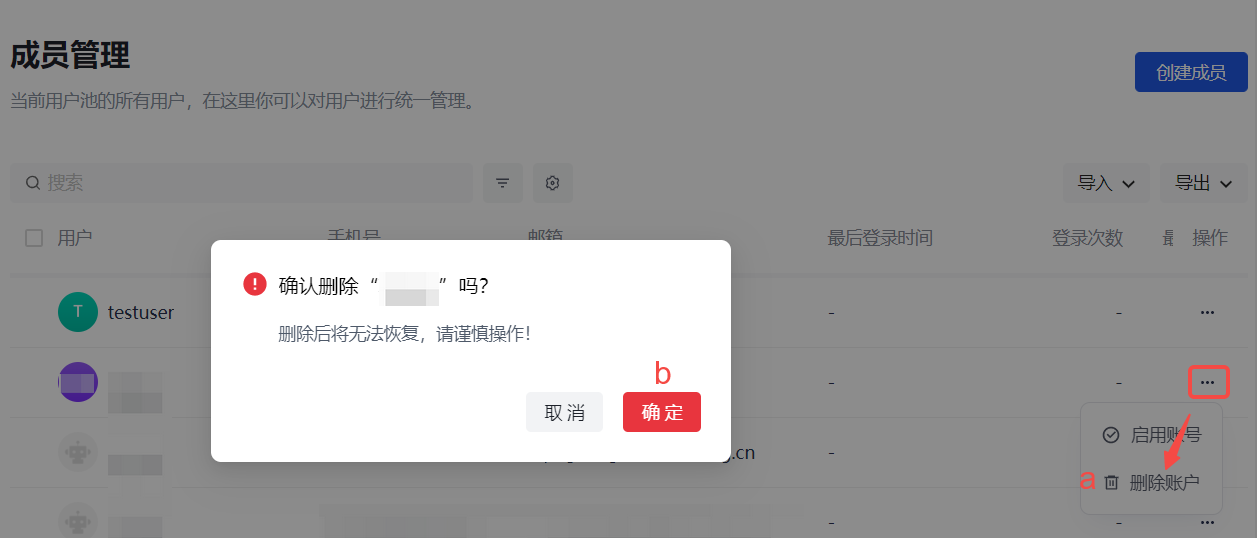
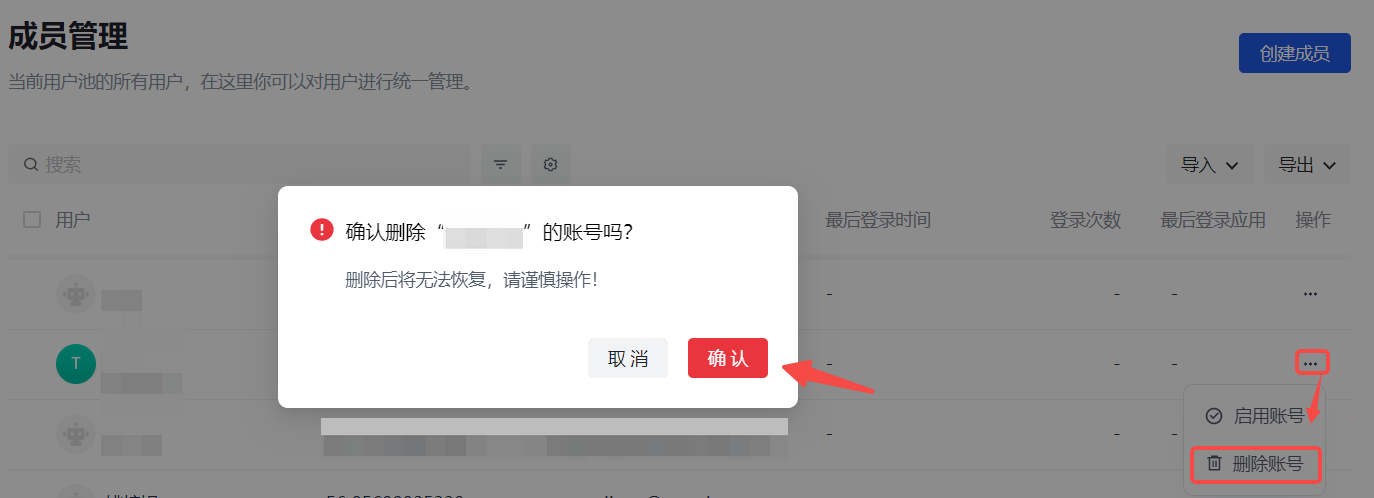
update sync

diff --git a/docs/guides/sync-new/risky-operation.md b/docs/guides/sync-new/risky-operation.md
@@ -13,22 +13,21 @@
 ## 步骤一：删除用户 / 部门
 
 ::: hint-info
-* 待删除用户 / 部门必须属于所建下游同步任务中 **同步范围** 指定的组织树和部门。
-* 删除用户 / 部门前确保已经执行了下游同步，且同步成功，保证 {{$localeConfig.brandName}} 与下游应用数据一致。
+* 待删除用户 / 部门必须属于当前下游同步任务中 **同步范围** 指定的组织树和部门。
+* 删除用户 / 部门前确保已经执行了下游同步，且同步成功。
 :::
 
 ### 删除用户
 
 ::: hint-info
-* 办理离职的用户必须在 **成员管理** 里执行删除操作后，才能触发同步中心删除保护。
-* 必须为待删除用户配置正确的手机号等字段信息（因应用不同），否则同步失败。
+办理离职的用户必须在 **成员管理** 中执行删除操作后，才能触发同步中心删除保护。
 :::
 
 1. 办理离职。</br>a. 在 **组织机构->组织管理**（ToE 场景）/ **用户管理->组织机构**（ToB / ToC 场景）组织树选中待删除成员所在部门。</br>b. 在右侧部门成员列表选中待删用户。</br>c. 在列表下方弹出的操作选项栏点击 **办理离职**。</br>d. 在弹框点击 **离职** 进行确认。
 
 <img src="./images/process-member-leave.png" style="display:block;margin: 0 auto;">
 
-2. 删除账户。</br>a. 在 **组织机构->成员管理**（ToE 场景）/ **用户管理->用户列表**（ToB / ToC 场景）点击待删除用户所在行 **操作** 列 **删除账户** 按钮。</br>b. 在弹框点击 **确定** 确认删除。
+2. 删除账号。</br>a. 在 **组织机构->成员管理**（ToE 场景）/ **用户管理->用户列表**（ToB / ToC 场景）点击待删除用户所在行 **操作** 列 **删除账号** 按钮。</br>b. 在弹框点击 **确定** 确认删除。
 
 <img src="./images/delete-account.png" style="display:block;margin: 0 auto;">
 
@@ -37,7 +36,7 @@
 路径：**组织机构->组织管理**（ToE 场景）/ **用户管理->组织机构**（ToB / ToC 场景）
 
 ::: hint-info
-在删除部门前需要移除部门内用户，否则无法删除。
+在删除部门前需要移除部门内子部门及用户，否则无法删除。
 :::
 
 <img src="./images/delete-department.png" style="display:block;margin: 0 auto;">
@@ -48,22 +47,41 @@
 在勾选部门下用户后，如果列表下方弹出的操作栏中 **移除成员** 按钮是激活状态（所选用户仅属于当前部门），则点击该按钮将所选用户从当前部门直接移除即可；否则，需要按照 [办理用户离职步骤 1 所述](#删除用户) 将所选用户通过办理离职方式从当前部门用户列表中移除。
 :::
 
-2. 删除部门。</br>a. 在左侧组织树点击所选部门后的更多按钮，选择 **删除部门**。</br>b. 在弹框点击 **删除** 按钮确认删除。</br>系统提示成功删除部门。
+2. 删除部门下所有子部门。
+
+3. 删除部门。</br>a. 在左侧组织树点击所选部门后的更多按钮（...），选择 **删除部门**。</br>b. 在弹框点击 **删除** 按钮确认删除。</br>系统提示成功删除部门。
 
 ## 步骤二：在删除保护页执行删除
 
-1. 返回 **同步中心**，在同步任务画布找到待同步数据的下游应用，点击 **处理删除保护** 按钮。</br>进入 **删除保护** 页。
+::: hint-info
+同步任务画布中，**处理删除保护** 按钮有两种状态：
+* 黑色三角：当前同步任务无待处理的删除操作。
+* 橙色三角：当前同步任务有待处理的删除操作。
+:::
 
 <img src="./images/enter-process-delete-protection.png" style="display:block;margin: 0 auto;">
+
+1. 返回 **同步中心**，在同步任务画布找到待同步数据的下游应用，点击 **处理删除保护** 按钮，进入 **删除保护** 页。
+
+::: hint-info
+也可在下游应用的同步任务详情页点击右上角 **删除保护** 按钮进入 **删除保护** 页。
+:::
 
 2. 在 **操作列表** 点击待删除主体所在行 **操作** 列 **执行删除** 按钮，并在确认弹窗中点击 **确定**。</br>提示操作成功。
 
 <img src="./images/delete-protection-list.png" style="display:block;margin: 0 auto;">
 
-<img src="./images/execute-status.jpg" style="display:block;margin: 0 auto;">
-
 ::: hint-info
 * **删除列表** 默认显示所有 **未执行** 的删除操作。点击表头 **执行状态** 取消勾选 **未执行** 后，可查看到当前下游应用的所有删除操作执行记录，了解其执行状态。
 * 点击 **操作** 列 **执行删除** 按钮可执行删除操作，即在下游同步删除该用户 / 部门。
-* 点击 **操作** 列 **取消删除** 按钮不执行删除操作，即下游不会同步删除该用户 / 部门，当前删除操作 **执行状态变** 变为 **已取消**。**取消删除** 后，不可再重新执行同步任务，会导致上下游数据不一致，请谨慎操作！
+* 点击 **操作** 列 **取消删除** 按钮不执行删除操作，即下游不会同步删除该用户 / 部门，当前删除操作 **执行状态** 变为 **已取消**。**取消删除** 后，不可再重新执行同步任务，会导致上下游数据不一致，请谨慎操作！
 :::
+
+<img src="./images/execute-status.jpg" style="display:block;margin: 0 auto;">
+
+::: hint-info
+对于 **未执行** 和/或 **执行失败** 状态，可以点击多个条目进行批量操作。
+:::
+
+<img src="./images/batch-delete.png" style="display:block;margin: 0 auto;">
+

diff --git a/docs/guides/sync-new/perform-sync-new.md b/docs/guides/sync-new/perform-sync-new.md
@@ -6,10 +6,13 @@
 
 当 **同步时机** 为 **手动** 时，需要管理员手动执行同步任务，实现上下游数据的同步。进入 **同步中心** 页面，可以看到同步任务画布，展示所有已创建的同步任务。
 
+## 执行同步
+
 要执行选定的同步任务，执行以下步骤：
 
 ::: hint-info
-执行同步任务，数据不可恢复，要谨慎操作！
+* 执行同步任务，数据不可恢复，要谨慎操作！
+* 必须为待删除用户配置正确的手机号等字段信息（因应用不同），否则同步失败。
 :::
 
 1. 在同步任务画布点击目标任务卡片上的 **执行同步任务** 按钮。</br>打开确认执行弹框。
@@ -18,15 +21,17 @@
 也可以进入该同步任务详情页，点击右上角 **执行同步任务** 按钮。
 :::
 
+<img src='./images/execute-sync-task.png' > 
+
 2. 点击 **确定** 按钮开始执行同步。
 
 ::: hint-info
 同步数据会需要一段时间，这取决于待同步的数据量的大小。
 :::
 
-<img src='./images/execute-sync-task.png' > 
+## 查看同步历史
 
-3. 同步完成后，可以到待同步的应用用户管理页面查看同步后结果，检验同步是否成功。</br>也可以进入同步任务详情页，点击 **同步历史** 选项卡，看到历次同步数据。</br>你可以在 **同步历史** 标签页查看历次同步任务执行时间、同步方式（**实时同步** 还是 **手动**）、历次执行的组织和用户的变更状态及同步更新情况，可在 **操作** 列查看当次同步任务的执行详情，并可导出此次同步执行日志。
+同步完成后，可以到待同步的应用用户管理页面查看同步后结果，检验同步是否成功。</br>也可以进入同步任务详情页，点击 **同步历史** 选项卡，看到历次同步数据。</br>你可以在 **同步历史** 标签页查看历次同步任务执行时间、同步方式（**实时同步** 还是 **手动**）、历次执行的组织和用户的变更状态及同步更新情况，可在 **操作** 列查看当次同步任务详情，并可导出此次同步执行日志。
 
 <img src='./images/sync-history.png' >
 
@@ -87,9 +92,43 @@
 <td>操作</td>
 <td>
 <ul>
-<li>点击 <b>操作</b> 列 <b>详情</b> 按钮，可以查看此次同步执行的主体、同步类型、同步完成时间以及是否成功同步。</p>也可在 <b>同步历史</b> 列表中单击待查看项进入此次同步执行的详情页。</li>
+<li>点击 <b>操作</b> 列 <b>详情</b> 按钮，可以查看此次同步执行的主体、同步类型、同步完成时间以及是否成功同步。</p>也可在 <b>同步历史</b> 列表中单击待查看项进入此次同步执行的详情页。</p>有关详细介绍，请参阅下文 [查看同步历史详情]。</li>
 <li>点击 <b>操作</b> 列 <b>导出</b> 按钮，可以将此次同步日志导出为 Excel 文件。</p>也可在当前同步执行的详情页点击右上角 <b>导出 Excel</b> 按钮。</li>
 </ul>
 </td>
 </tr>
 </table>
+
+### 查看同步历史详情
+
+你可以在 **同步历史详情** 页查看当前同步任务某次执行结果详细信息。
+
+<img src='./images/sync-history-details.png' > 
+
+|序号|字段|说明|
+|----|----|----|
+|1|主体|可按 **用户**、**部门** 进行筛选。|
+|2|同步类型|<img src="./images/sync-type.png" height=350 style="display:block;margin: 0 auto;"> |
+|3|同步时间|显示同步任务完成时间。|
+|4|同步状态|可按 **同步成功**、**同步失败** 进行筛选。|
+|5|展开 / 收起按钮|如当次同步任务执行中，用户同步字段有更新，则可点击展开按钮查看字段更新详情。|
+
+### 导出同步日志
+
+管理员可以导出当次同步任务执行日志。
+
+要导出同步任务执行日志，执行以下步骤：
+
+1. 在 **同步历史** 标签页，点击执行列表中某次执行所在行 **操作** 列 **导出** 按钮。
+
+::: hint-info
+也可在 **同步历史详情** 页点击 **导出 Excel** 按钮。
+:::
+
+<img src="./images/export-sync-log.png" style="display:block;margin: 0 auto;">
+
+2. 在确认弹窗点击 **确认** 按钮。</br>打开 Excel 格式同步日志。
+
+3. 点击 **下载文件** 将同步日志下载到本地。
+
+<img src="./images/excel-sync-log.png" style="display:block;margin: 0 auto;">

diff --git a/docs/guides/sync-new/create-sync-new/README.md b/docs/guides/sync-new/create-sync-new/README.md
@@ -8,7 +8,7 @@
 
 要创建新的同步任务，执行以下步骤：
 
-1. 在 **同步中心** 页面点击右上角 **创建同步任务** 按钮，或者在直接在画板点击加号按钮打开 **选择同步任务** 窗口。</br>
+1. 在 **同步中心** 页面点击右上角 **创建同步任务** 按钮，或者在直接在画板点击加号按钮打开 **选择同步任务** 窗口（对于后者，略过步骤 2直接执行步骤 3）。</br>
 
 ![](../images/create-sync-task.png)
 
@@ -22,7 +22,7 @@
 ![](../images/select-sync-task-window.png)
 
 ::: hint-info
-在一个用户池新建一个同步任务时，同一个身份源不能既作为上游，又同时充当下游。
+在一个用户池新建一个同步任务时，同一个数据源不能既作为上游，又同时充当下游。
 :::
 
 3. 根据提示填写配置信息。</br>有关获取配置信息的详细描述，请参阅 [获取应用配置项和权限](/guides/sync-new/create-sync-new/get-config-new/feishu.md)。

diff --git a/docs/guides/sync-new/maintain-sync.md b/docs/guides/sync-new/maintain-sync.md
@@ -4,7 +4,7 @@
 
 路径：**同步中心**
 
-同步中心画布展示所有已创建的同步任务。管理员可以在画布 [创建新的同步任务](../sync-new/create-sync-new/README.md)。对于已创建的同步任务，管理员还可以 [查看各同步任务的执行状态](#查看同步任务执行状态)，[查看和修改同步任务信息](#修改同步任务信息)，[启用 / 禁用同步任务](#启用禁用同步任务)，[删除同步任务](#删除同步任务)等。
+同步中心画布展示所有已创建的同步任务。对于已创建的同步任务，管理员还可以 [查看各同步任务的执行状态](#查看同步任务执行状态)，[查看和修改同步任务信息](#修改同步任务信息)，[启用 / 禁用同步任务](#启用禁用同步任务)，[删除同步任务](#删除同步任务)等。
 
 ## 查看同步任务执行状态
 

diff --git a/docs/guides/sync-new/create-sync-new/sync-type-new.md b/docs/guides/sync-new/create-sync-new/sync-type-new.md
@@ -6,7 +6,7 @@
 
 ::: hint-info
 * 下游同步时 **删除** 操作需要在 **删除保护** 配置页手动确认。有关详情，请参阅 [处理删除保护](/guides/sync-new/risky-operation.md)。
-* 如果是首次执行数据同步，建议先执行手动全量同步，防止数据丢失。
+* 如果是首次执行数据同步，建议先执行手动同步，防止数据丢失。
 :::
 
 ## 手动同步
